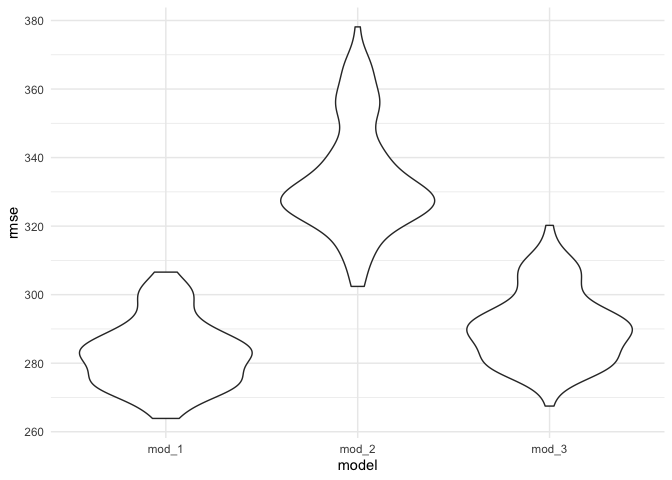
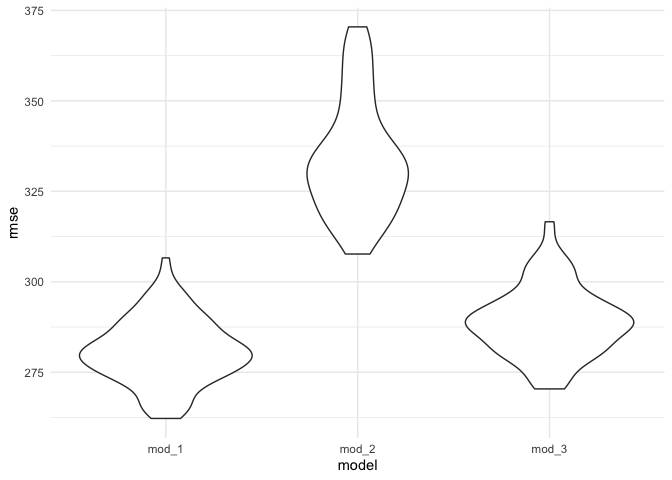
problem 3 - bootstrap and plots

diff --git a/p8105_hw6_ym2770.md b/p8105_hw6_ym2770.md
@@ -96,8 +96,18 @@ Omaha, Oakland, etc.
 ``` r
 birthweight_df = 
   read.csv("data/birthweight.csv", na = c("", "NA", "Unknown")) %>% 
+  mutate(
+    babysex = case_when(
+      babysex == 1 ~ "Male",
+      babysex == 2 ~ "Female"
+    )
+  ) %>% 
   select(bwt,bhead, babysex, blength, fincome, gaweeks, malform, smoken, wtgain)
+
+typeof(birthweight_df$babysex)
 ```
+
+    ## [1] "character"
 
 The variables that I put into the regression model are the factors that
 I think could affect the birthweight, including baby’s sex, baby’s head
@@ -176,9 +186,110 @@ cv_df %>%
     ## # A tibble: 3 x 2
     ##   model avg_rmse
     ##   <chr>    <dbl>
-    ## 1 mod_1     283.
+    ## 1 mod_1     281.
     ## 2 mod_2     334.
-    ## 3 mod_3     291.
+    ## 3 mod_3     289.
 
 Conclusion: The model I built has the smallest rmse compared with the
 other two and thus can predict birthweight better.
+
+## Problem 3
+
+``` r
+weather_df = 
+  rnoaa::meteo_pull_monitors(
+    c("USW00094728"),
+    var = c("PRCP", "TMIN", "TMAX"), 
+    date_min = "2017-01-01",
+    date_max = "2017-12-31") %>%
+  mutate(
+    name = recode(id, USW00094728 = "CentralPark_NY"),
+    tmin = tmin / 10,
+    tmax = tmax / 10) %>%
+  select(name, id, everything())
+```
+
+    ## Registered S3 method overwritten by 'hoardr':
+    ##   method           from
+    ##   print.cache_info httr
+
+    ## using cached file: /Users/yuanming/Library/Caches/R/noaa_ghcnd/USW00094728.dly
+
+    ## date created (size, mb): 2020-10-09 14:02:19 (7.524)
+
+    ## file min/max dates: 1869-01-01 / 2020-10-31
+
+Use 5000 bootstrap samples and produce estimates of the two quantities
+of interest for each bootstrap sample.
+
+``` r
+weather_boot_results = 
+  weather_df %>% 
+  drop_na(tmin, tmax) %>% 
+  bootstrap(5000, id = "strap_number") %>% 
+  mutate(
+    models = map(.x = strap, ~lm(tmax ~ tmin, data = .x)), 
+    results_est = map(models, broom::tidy),
+    results_r2 = map(models, broom::glance)
+  ) %>% 
+  unnest(results_est) %>% 
+  select(strap_number, term, estimate, results_r2) %>% 
+  pivot_wider(
+    names_from = term,
+    values_from = estimate
+  ) %>% 
+  mutate(
+    log.term.product = `(Intercept)` * tmin
+  ) %>% 
+  unnest(results_r2) %>% 
+  select(strap_number, adj.r.squared, log.term.product) %>% 
+  pivot_longer(
+    adj.r.squared:log.term.product,
+    names_to = "estimate",
+    values_to = "value"
+  )
+```
+
+Plot the distribution of the estimates
+
+``` r
+r_2_plot = 
+  weather_boot_results %>% 
+  filter(estimate == "adj.r.squared") %>% 
+  ggplot(aes(x = value)) + 
+  geom_density()
+
+log_prod_plot = 
+  weather_boot_results %>% 
+  filter(estimate == "log.term.product") %>% 
+  ggplot(aes(x = value)) + 
+  geom_density()
+
+
+r_2_plot / log_prod_plot
+```
+
+![](p8105_hw6_ym2770_files/figure-gfm/unnamed-chunk-12-1.png)<!-- -->
+
+For r
+
+Using the 5000 bootstrap estimates, identify the 2.5% and 97.5%
+quantiles to provide a 95% confidence interval for r̂<sup>2</sup> and
+log (β̂ 1\*β̂2)
+
+``` r
+weather_boot_results %>% 
+  group_by(estimate) %>% 
+  summarize(
+    CI_lower = quantile(value, 0.025),
+    CI_upper = quantile(value, 0.975)
+  ) %>% 
+  knitr::kable(digits = 3)
+```
+
+    ## `summarise()` ungrouping output (override with `.groups` argument)
+
+| estimate         | CI\_lower | CI\_upper |
+| :--------------- | --------: | --------: |
+| adj.r.squared    |     0.893 |     0.927 |
+| log.term.product |     7.136 |     7.844 |
